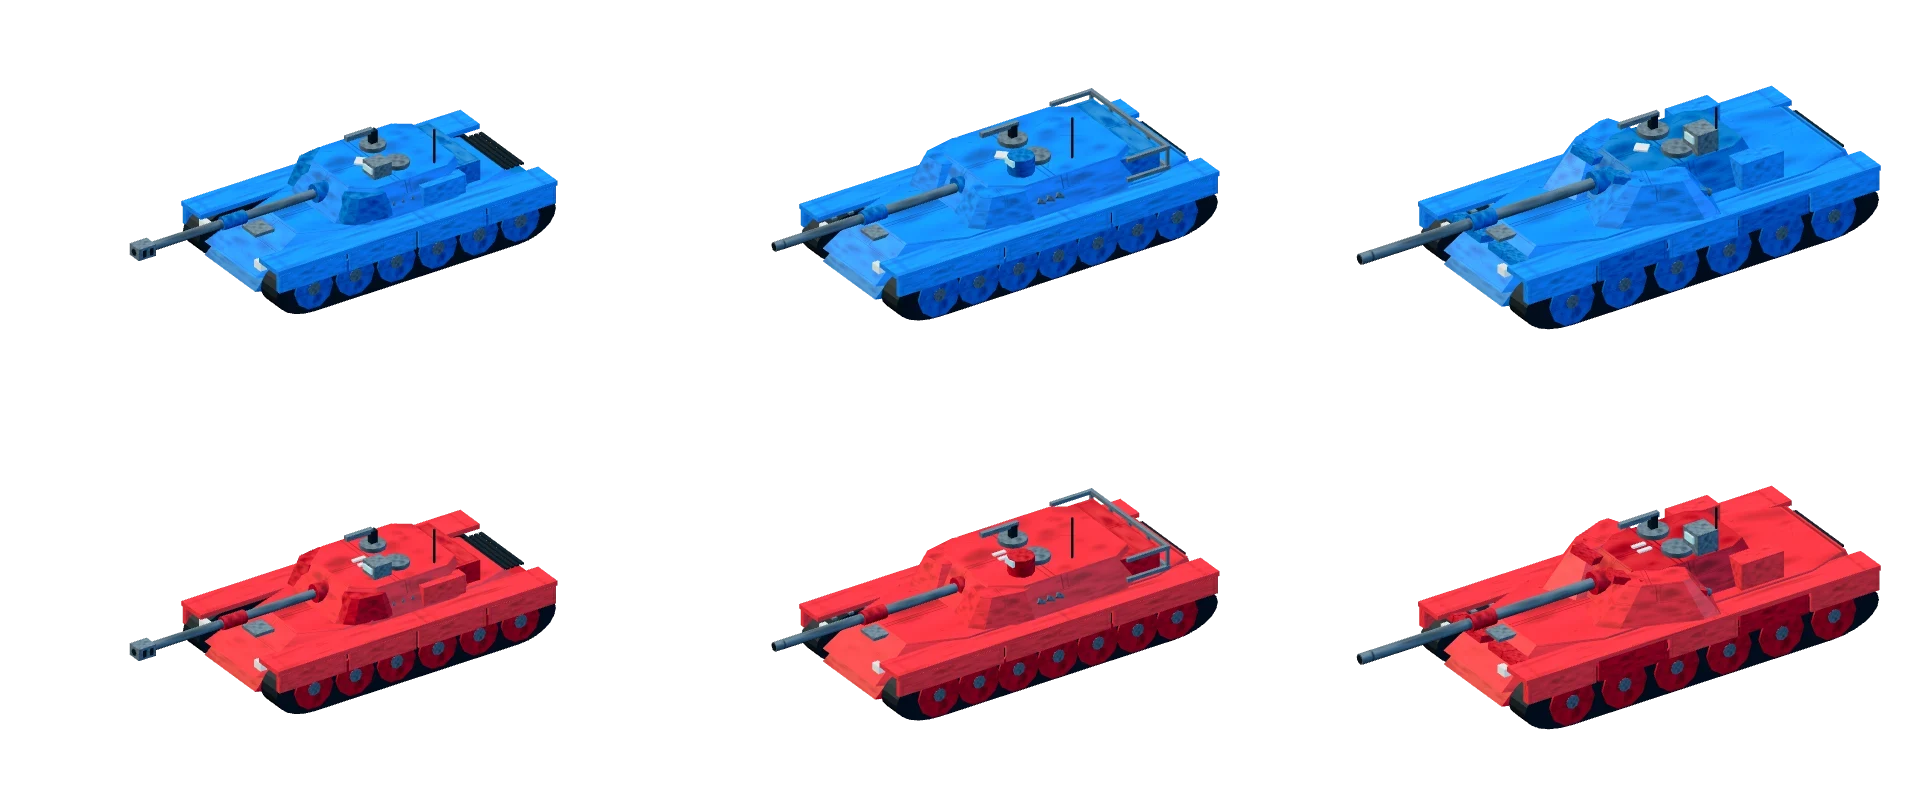
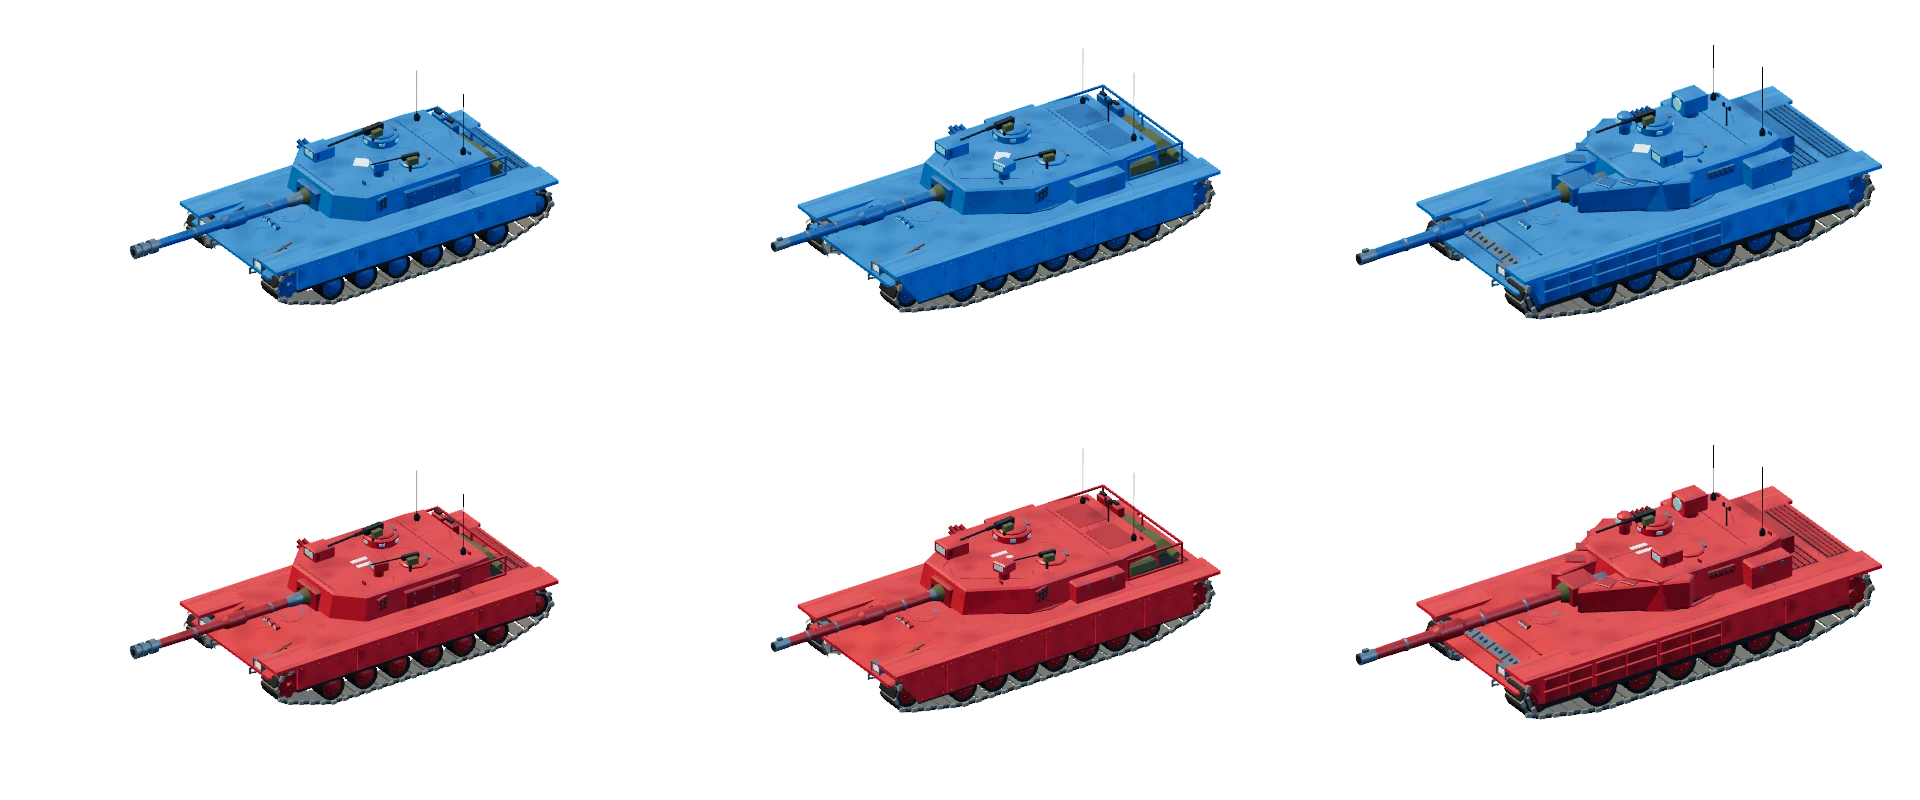
Brighten vehicle paint and regenerate the tank previews
Service paint moves halfway back toward the team colors (0x2376bd, 0xc73133),
still lit and tone mapped. Lab scenes may opt into sky reflections, which the
tank previews use so the Battle Setup cards shade like a round; the preview
tool now treats background pipeline compiles as progress.

diff --git a/tools/tank-previews.ts b/tools/tank-previews.ts
@@ -66,6 +66,8 @@ const SCENE = {
     position: rim.map((value) => (value / rimLength) * RIM_DISTANCE),
   },
   exposure: 1,
+  // The game's sky reflection, so card paint and steel shade as they do in a round.
+  reflections: 1,
   camera: camera(),
   objects: [],
 };
@@ -122,9 +124,12 @@ export async function renderTankPreviews(): Promise<Record<string, string>> {
       }
     }
     for (;;) {
-      const [compiled, remaining] = lab.prepare_step(PREPARE_BUDGET);
+      const [compiled, remaining, compiling] = lab.prepare_step(PREPARE_BUDGET);
       if (remaining === 0) break;
-      if (compiled === 0) throw new Error("Pipeline preparation made no progress");
+      // Pipelines compiling on the browser's background threads are progress too.
+      if (compiled === 0 && compiling === 0) {
+        throw new Error("Pipeline preparation made no progress");
+      }
       await new Promise((resolve) => setTimeout(resolve, 0));
     }
     while (lab.textures_pending() > 0) {

diff --git a/crates/core/src/models/tests.rs b/crates/core/src/models/tests.rs
@@ -155,7 +155,7 @@ fn wreck_batches_match_typescript() {
     #[rustfmt::skip]
     let expected: [(VehicleKind, usize, WreckPart, &[BatchSummary]); 4] = [
         (VehicleKind::Heavy, 1, WreckPart::Hull, &[
-            (1302, 0x3a8a211f, 0xa9a70f0e, 0x70779971, 0x79bae59b),
+            (1302, 0x3a8a211f, 0xa9a70f0e, 0x70779971, 0x8992e097),
             (1584, 0x7905bdd9, 0x2708b445, 0x6072eca1, 0x7e0f5405),
             (276, 0xff2c0d56, 0x58dab095, 0x87edbdcb, 0x72c7fce1),
             (72, 0xe4723595, 0xf5ae0c53, 0x35c99581, 0xfffc251d),
@@ -165,17 +165,17 @@ fn wreck_batches_match_typescript() {
             (144, 0x5ca3de75, 0x162a9a1f, 0x951bbe05, 0x16256455),
             (288, 0xd47a0c0d, 0x56200137, 0x94d4f49d, 0xa2f91ec5),
             (8736, 0x1b037e68, 0xbac3961c, 0xbc43a5f1, 0x451582ad),
-            (4308, 0xd6ace17a, 0x0dbb1a7b, 0x384deb19, 0x877e9a21),
-            (1344, 0x781e9945, 0x3175a535, 0x314b8499, 0x07e5b035),
+            (4308, 0xd6ace17a, 0x0dbb1a7b, 0x384deb19, 0x5a5a6451),
+            (1344, 0x781e9945, 0x3175a535, 0x314b8499, 0x883731e5),
         ]),
         (VehicleKind::Humvee, 0, WreckPart::TurretBarrel, &[
-            (4560, 0x7b5fde4a, 0x1e53e955, 0x84d726eb, 0x8efa2f55),
+            (4560, 0x7b5fde4a, 0x1e53e955, 0x84d726eb, 0xdb0237b5),
             (468, 0x74e31910, 0xdad78ac5, 0x96734335, 0x80f71295),
             (936, 0xb40fca71, 0xd159cf07, 0xe9946e96, 0x9aef1fdd),
             (348, 0x4b30ac35, 0xe40decbb, 0xa2ea73b1, 0x25856219),
         ]),
         (VehicleKind::Scout, 0, WreckPart::Intact, &[
-            (4260, 0xc974c3c3, 0x455307df, 0x875d170f, 0x12d74ca9),
+            (4260, 0xc974c3c3, 0x455307df, 0x875d170f, 0xa935769d),
             (2892, 0x422d45d6, 0x1862c43b, 0xd9b7c4dc, 0x5bbf7c35),
             (1104, 0xadcd0191, 0x43c96e7f, 0xd074ac58, 0x8afc8a8d),
             (564, 0x4bb34e4d, 0x691baff3, 0xdd844d2d, 0x003fa771),
@@ -183,13 +183,13 @@ fn wreck_batches_match_typescript() {
             (60, 0xf347d68e, 0x9525485d, 0x1ef2798c, 0xf543efd9),
             (72, 0xf81a202d, 0x8f9161e5, 0xa3ee9e1d, 0x0c45cab5),
             (8532, 0x409d8605, 0x08c58fd9, 0x0fd93d1d, 0x0e491cb5),
-            (4308, 0x26bf1eb1, 0x8df1db32, 0xcd8a7719, 0x5ea4ade1),
-            (744, 0x6f365b09, 0x0b1a0325, 0x5ca996b5, 0x38ea080d),
+            (4308, 0x26bf1eb1, 0x8df1db32, 0xcd8a7719, 0xa568df15),
+            (744, 0x6f365b09, 0x0b1a0325, 0x5ca996b5, 0x1ceaa305),
             (456, 0xcbf8aaa7, 0x290c9454, 0x5ff550b2, 0x701aa04d),
             (144, 0x83237b42, 0xa782a24b, 0x6d704989, 0x924eb995),
         ]),
         (VehicleKind::Balanced, 1, WreckPart::Barrel, &[
-            (480, 0x9816bc91, 0x918e3fbb, 0x3dd99165, 0x88b38325),
+            (480, 0x9816bc91, 0x918e3fbb, 0x3dd99165, 0x7bfc68e5),
             (816, 0xb6e9fb17, 0xb7f6ddc8, 0x1a284e7b, 0xff88b805),
             (36, 0xd1ad26bd, 0x347a9e35, 0x13c61651, 0x022a75b9),
             (144, 0x4c0b62a7, 0xa782a24b, 0x6d704989, 0x924eb995),

diff --git a/crates/core/src/models/tank_surfaces.rs b/crates/core/src/models/tank_surfaces.rs
@@ -10,10 +10,11 @@ use std::sync::{Arc, Mutex};
 use super::Team;
 use crate::scene::{Material, Node, Shading, TextureRef};
 
-/// Service paint per team: muted slate blue and oxide red that keep each
-/// team's hue under the sun without reading as toy plastic. The saturated
-/// `TEAM_COLORS` stay on markings, flags, bars and projectiles.
-pub const VEHICLE_PAINT: [u32; 2] = [0x46617c, 0x8f3329];
+/// Service paint per team: halfway between the saturated `TEAM_COLORS` and a
+/// muted slate blue / oxide red, so tanks stay bright and team-coded without
+/// reading as toy plastic. Unlike the team colors it is lit and tone mapped
+/// like the scene; the team colors stay on markings, flags, bars and projectiles.
+pub const VEHICLE_PAINT: [u32; 2] = [0x2376bd, 0xc73133];
 
 /// A team's vehicle body paint.
 pub fn vehicle_paint(team: Team) -> u32 {

diff --git a/crates/web/src/lab.rs b/crates/web/src/lab.rs
@@ -67,7 +67,7 @@ impl RenderLab {
             sun_position: Vec3::from(spec.sun.position),
             sun_target: Vec3::from(spec.sun.target),
             exposure: spec.exposure,
-            reflections: 0.0,
+            reflections: spec.reflections,
         });
         let sun = Vec3::from(spec.sun.position);
         self.renderer.set_sun_shadow(SunShadow {

diff --git a/crates/web/src/lab_scene.rs b/crates/web/src/lab_scene.rs
@@ -247,6 +247,9 @@ pub struct SceneSpec {
     pub shadow: ShadowSpec,
     pub point_light: Option<PointLightSpec>,
     pub exposure: f32,
+    /// Sky reflection strength; absent (0) in the Three.js calibration scenes.
+    #[serde(default)]
+    pub reflections: f32,
     pub camera: CameraSpec,
     pub water: Option<WaterSpec>,
     pub objects: Vec<ObjectSpec>,
